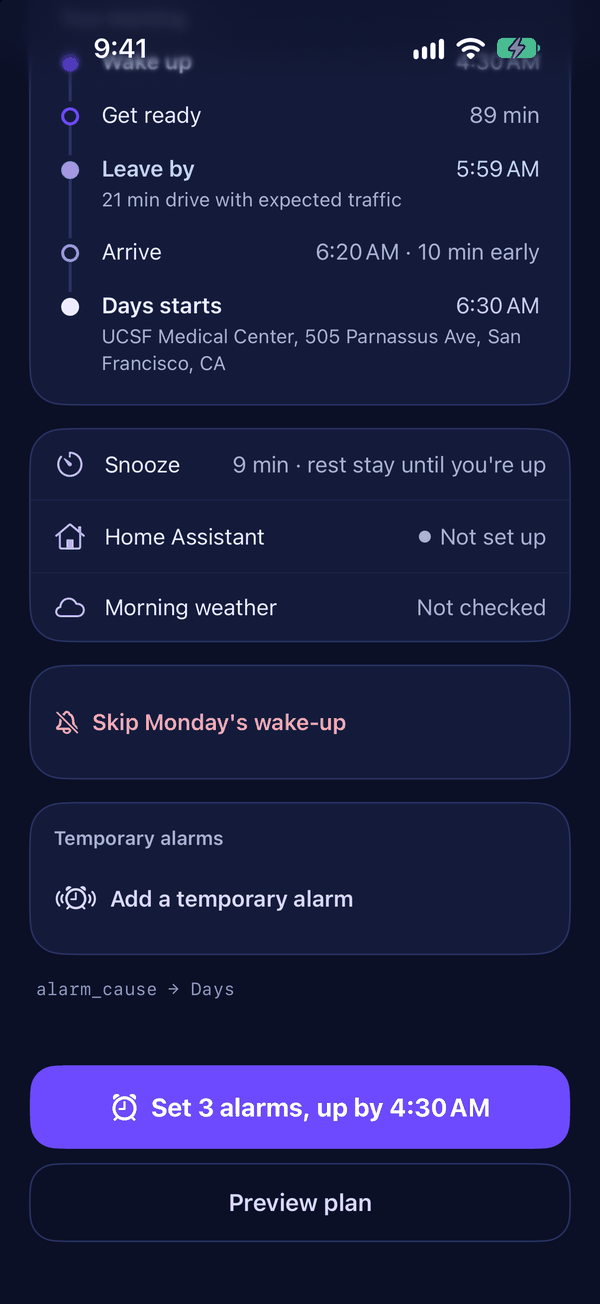
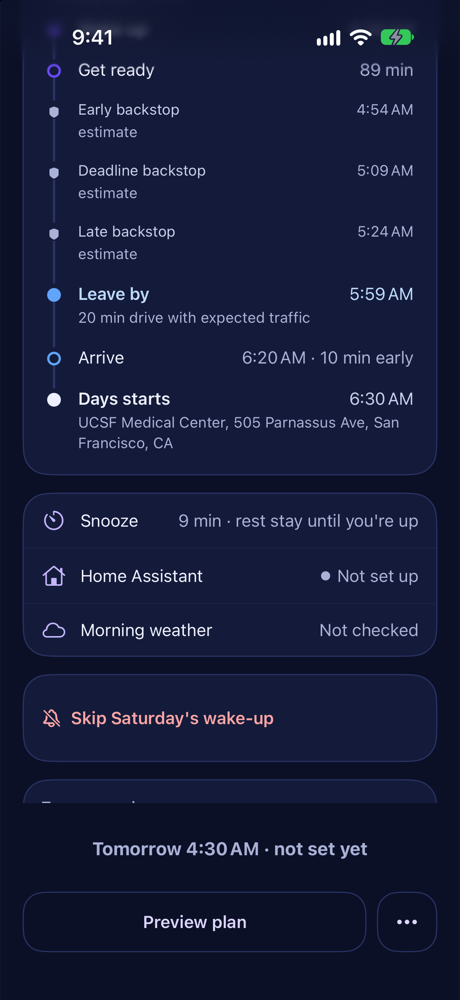
v0.4.6 item 4: README with new screenshots and GIFs
Every picture retaken in the simulator (iOS 27.0) with made-up events: Tonight, Your morning,
Upcoming events, swipe to ignore, the ⋯ list, slide-and-hold, skip, nap, the weekly summary,
Settings, Mornings, Notifications, Wind-down and I'm awake in the bar. The old pictures of
screens that changed are gone. The dated "New in" lists became sections per feature (the bar,
wind-down, nap, mornings with no alarms, weekly summary, widgets/Live Activities/controls/Siri,
notifications); phone commands, options, entities, events and actions brought up to 0.4.6.

diff --git a/README.md b/README.md
@@ -22,7 +22,7 @@
   &nbsp;
   <img src="docs/images/tonight-morning.png" width="200" alt="Morning timeline with leave-by and drive time">
   &nbsp;
-  <img src="docs/images/slide-to-stop.gif" width="200" alt="Slide to stop a snoozed alarm">
+  <img src="docs/images/slide-and-hold.gif" width="200" alt="Slide and hold to confirm a protected action">
 </p>
 
 Bedtime Bridge takes over the parts of a bedtime shortcut that Shortcuts does badly: reading
@@ -33,6 +33,7 @@ chain of calendar, maps and alarm actions. A companion Home Assistant integratio
 helpers your automations can use.
 
 - [A quick tour](#a-quick-tour)
+- [What's in the app](#whats-in-the-app): [bottom bar](#the-bottom-bar) · [wind-down](#wind-down) · [nap](#nap) · [mornings with no alarms](#mornings-with-no-alarms) · [weekly summary](#weekly-summary) · [widgets, Live Activities, controls and Siri](#widgets-live-activities-controls-and-siri) · [notifications](#notifications)
 - [How it fits together](#how-it-fits-together)
 - [How planning works](#how-planning-works)
 - [Alarms and snooze](#alarms-and-snooze)
@@ -45,6 +46,8 @@ helpers your automations can use.
 
 ## A quick tour
 
+All pictures are from the simulator with made-up calendar events.
+
 <table>
   <tr>
     <td width="33%" align="center"><img src="docs/images/tonight.png" width="240" alt="Tonight"></td>
@@ -52,31 +55,138 @@ helpers your automations can use.
     <td width="33%" align="center"><img src="docs/images/upcoming-events.png" width="240" alt="Upcoming events"></td>
   </tr>
   <tr>
-    <td valign="top"><b>Tonight.</b> The next shift or appointment, the wake-up time it needs, and the whole alarm series. Preview first, or set the alarms in one tap.</td>
-    <td valign="top"><b>Your morning.</b> Wake up, get ready, leave by, arrive early, start: with the live drive time and any extra time for bad weather.</td>
-    <td valign="top"><b>Upcoming events.</b> Next week's appointments that have no location or no "wake up" note, so you can fix them before the night they matter.</td>
+    <td valign="top"><b>Tonight.</b> The next shift or appointment, the wake-up time it needs, and the whole alarm series. Preview it, then set it from the bar; bedtime sets it hands-free.</td>
+    <td valign="top"><b>Your morning.</b> Wake up, get ready, the three house backstops, leave by, arrive early, start: with the drive time for that hour and any extra time for bad weather.</td>
+    <td valign="top"><b>Upcoming events.</b> Next week's appointments with no location or no "wake up" note, so you can fix them before the night they matter.</td>
   </tr>
   <tr>
     <td align="center"><img src="docs/images/ignore-event.gif" width="240" alt="Swipe to ignore an event"></td>
-    <td align="center"><img src="docs/images/skip.png" width="240" alt="Skip a morning"></td>
-    <td align="center"><img src="docs/images/temporary-alarm.png" width="240" alt="Temporary alarm"></td>
+    <td align="center"><img src="docs/images/more-menu.png" width="240" alt="The ⋯ list"></td>
+    <td align="center"><img src="docs/images/slide-and-hold.gif" width="240" alt="Slide and hold"></td>
   </tr>
   <tr>
     <td valign="top"><b>Swipe to ignore.</b> An event that needs no wake-up or no location moves to the Ignored tab. Swipe right there to undo.</td>
-    <td valign="top"><b>Skip a morning.</b> Sleep in, or wake at a different time. Skipping the night before also turns off the house's wake failsafes.</td>
-    <td valign="top"><b>Temporary alarms.</b> One extra wake-up (take the trash out, make a call) that leaves your regular alarms, Sleep In and Awake For Day alone.</td>
+    <td valign="top"><b>The bar and ⋯.</b> The bottom bar changes with the moment; ⋯ holds everything else. Amber items are protected.</td>
+    <td valign="top"><b>Slide and hold.</b> Protected actions swap the bar for a slider: slide to the end and hold for 5 seconds. Letting go early does nothing.</td>
   </tr>
   <tr>
-    <td align="center"><img src="docs/images/settings-pages.png" width="240" alt="Settings"></td>
-    <td align="center"><img src="docs/images/drive-time.png" width="240" alt="Drive time settings"></td>
-    <td align="center"><img src="docs/images/bad-weather.png" width="240" alt="Bad weather settings"></td>
+    <td align="center"><img src="docs/images/skip.png" width="240" alt="Skip a morning"></td>
+    <td align="center"><img src="docs/images/nap.png" width="240" alt="Nap"></td>
+    <td align="center"><img src="docs/images/weekly-summary.gif" width="240" alt="Weekly summary"></td>
   </tr>
   <tr>
-    <td valign="top"><b>Settings.</b> Shifts, get-ready time and home up front; everything else grouped into pages.</td>
-    <td valign="top"><b>Drive time.</b> Apple Maps for free, or TomTom and Google with your own keys. Use one, or the longest of all of them. Google's worst case is always shown.</td>
-    <td valign="top"><b>Bad weather.</b> Forecast from Home Assistant or Open-Meteo. Each condition gets the default extra time, its own amount, or none.</td>
+    <td valign="top"><b>Skip a morning.</b> Sleep in, or wake at a different time. Skipping the night before also turns off the house's wake failsafes. Undo from the card.</td>
+    <td valign="top"><b>Nap.</b> Tap a length and the alarms are set. Lengths that would run into something later today are greyed out.</td>
+    <td valign="top"><b>Your week.</b> This week so far and the 8 before it: bedtime against the target, snoozes, backstops, mornings changed, naps.</td>
+  </tr>
+  <tr>
+    <td align="center"><img src="docs/images/settings.png" width="240" alt="Settings"></td>
+    <td align="center"><img src="docs/images/mornings-settings.png" width="240" alt="Mornings settings"></td>
+    <td align="center"><img src="docs/images/notifications.png" width="240" alt="Notification levels"></td>
+  </tr>
+  <tr>
+    <td valign="top"><b>Settings.</b> Shifts up front, everything else in pages. Every page shows each setting's default and has its own reset.</td>
+    <td valign="top"><b>Mornings.</b> Get-ready time and arriving early, and what happens on <a href="#mornings-with-no-alarms">mornings with no alarms</a>.</td>
+    <td valign="top"><b>Notifications.</b> Each one Normal, Time-sensitive or Critical (Critical for the ones Home Assistant sends).</td>
   </tr>
 </table>
+
+## What's in the app
+
+### The bottom bar
+
+The bar at the bottom of Tonight shows what matters right now and the one or two things you'd
+do next: *Plan and set alarms* in the evening, *3 alarms set* with *Sleep later* once they're
+set, *I'm up early* before the first alarm, *Snoozing · rings 4:34* with *End alarms*,
+*Napping · up at 2:47* with *End nap*, *Winding down · bed 9:50*, *I'm awake* on a morning
+with no alarms. Everything else is in **⋯**, the same list every time with what doesn't apply
+hidden.
+
+It changes on time by itself while the app is open (5:00 PM, wind-down, go to bed, an alarm
+passing, the morning windows closing, Undo running out), not just when you touch it.
+
+**Protected actions** (End alarms, Not ready for bed, Back to bed, Skip, Sleep later, End nap,
+No alarms tomorrow, Undo, I'm awake and others) are amber, and swap the bar for a
+**slide-and-hold**: slide to the end and hold for 5 seconds while a ring fills.
+
+<p align="center"><img src="docs/images/im-awake-bar.png" width="320" alt="I'm awake in the bar on a morning with no alarms"></p>
+
+### Wind-down
+
+<img src="docs/images/wind-down.png" width="220" align="right" alt="Wind-down settings">
+
+Settings → Wind-down (off until the phone side is set up). From tomorrow's first alarm and your
+sleep goal, Home Assistant works out wind-down and go to bed (first alarm 4:20 → wind-down 8:50
+PM, bed 9:50 PM). It warns you 5 minutes before (with *15 min later* and *Cancel*), starts
+wind-down (the Winding down helper and the Wind Down On - App shortcut: Focus, Night Shift,
+Reduce White Point), says when it's time for bed (critical) and reminds you if you're still up.
+Getting home late moves bedtime later rather than cutting wind-down short. *Start wind-down now*
+shows in the bar in the hours before. Into bed (bedroom door closed and bed occupied) ends it.
+
+<br clear="right">
+
+### Nap
+
+Settings → Nap (off by default) adds a **Nap** button. Tap a length and its alarms are set
+straight away (2 alarms, 10 min apart). Anything later today (a shift, an appointment with its
+drive, your next alarm) greys out the lengths that would run into it, with the longest nap that
+fits. At home, Home Assistant turns a napping helper on and runs your nap Focus shortcuts. Nap
+alarms behave like temporary alarms: no wake routines, no Good Morning, no backstops. *End nap*
+(or stopping its last alarm) clears it from the screen at once.
+
+### Mornings with no alarms
+
+Sleep In on, no alarms, and you get up when you get up. At home, and only on such a morning
+(Settings → Mornings → *Mornings with no alarms*):
+
+1. **Leaving the bedroom disarms.** Out of bed, through the bedroom door, down the hall (the
+   hallway presence sensors in the integration's options): Home Assistant sends `RUN_DISARM` and
+   nothing else changes. Letting the dog out the patio door is safe from there.
+2. **Back in bed re-arms** (`RUN_ARM_STAY`) after the same time as after a temporary alarm.
+3. **Up for the day?** From 8:00 AM, once you've been up 15 minutes or the phone comes off the
+   charger, Home Assistant asks, with *Good morning* and *Back to bed*. No answer and still up 10
+   minutes later, it goes ahead: Sleep In off, Awake For Day on, `RUN_GOOD_MORNING` (Sleep Focus
+   off, the announcement).
+4. **I'm awake** does the same straight away: in the bar and ⋯, the Siri phrase *"I'm awake in
+   Bedtime Bridge"*, and the **I'm awake** control (Lock Screen, Control Center, Action button).
+
+The earliest time, the up-for and wait minutes and the whole thing on/off are in the app.
+
+### Weekly summary
+
+<img src="docs/images/weekly-summary.png" width="220" align="right" alt="This week so far">
+
+Home Assistant keeps track of each night and morning. Settings → Weekly summary → **See your
+week** shows this week so far, and the arrows go back through the 8 weeks before it: when you
+went to bed against the target, nights tracked, mornings, snoozes a morning, backstops fired,
+mornings changed (with the reasons) and naps. Weeks start on the day and at the time set there
+(Sunday 6:00 PM by default), when a notification and a Home Assistant sensor sum up the week
+that just ended.
+
+<br clear="right">
+
+### Widgets, Live Activities, controls and Siri
+
+- **Next Alarm widget** in every size: the Lock Screen (rectangular, circular, inline), small
+  (next alarm, or "Bed in…" during wind-down), medium (the next alarm and the next four things:
+  wind-down, go to bed, alarms, leave-by), and large and extra large (the night and morning as a
+  timeline).
+- **Live Activities:** "Bed in 42 min · first alarm 4:20" during wind-down, and "Leave in 25 min
+  · 5:45" after the first stop (drive, worst case, weather, next backstop). With an Apple push key
+  in the integration's options, Home Assistant starts, updates and ends them by push, without
+  the app running (`docs/ha-handoffs-v0.4.4.md`).
+- **Controls** for the Lock Screen, Control Center and the Action button: Nap, Wind-down (start or
+  cancel), Tonight and I'm awake.
+- **Quick actions** on the app icon (long-press), chosen in Settings → Shortcuts & controls.
+- **Siri:** plan, cancel, nap, no alarms tomorrow, sleep later, start or cancel wind-down, add
+  leave, add a wake-up event, I'm awake.
+
+### Notifications
+
+Settings → Notifications sets each one to Normal, Time-sensitive (comes through Focus) or Critical
+(sounds on silent; only for the ones Home Assistant sends, with Critical Alerts allowed for the
+Home Assistant app). Defaults: *Time for bed* critical; *Still up*, *Plug in your phone*, the
+leave-by reminders and *Tomorrow changed* time-sensitive; the rest normal.
 
 ## How it fits together
 
@@ -157,8 +267,6 @@ Settings → Alarms chooses one of two styles:
 | Sound | **iPhone alarm** (default), or one of six sounds that ship with the app: Sunrise (builds slowly), Chimes, Marimba, Harp, Classic beeps, Pulse. Settings → Alarms, with a play button to hear each. | Whatever you pick in the Clock app. |
 | After Stop | **Keeps the later alarms until you're up** (default; see below), rechecks traffic for the leave-by reminder. | Whatever your shortcut does. |
 
-<p align="center"><img src="docs/images/slide-to-stop.gif" width="220" alt="Slide to stop while snoozing"></p>
-
 **Stop keeps the rest until you're up.** Turning off the first alarm, switching the lights off
 and falling back asleep is how Wake Deadline Backstop came to exist. So by default, Stop only
 cancels the later alarms once Home Assistant confirms you're up: the bedroom door opened
@@ -180,12 +288,7 @@ alarm could both fire. Also delete the Clock alarms the old shortcut toggled.
 Plans change after bedtime. The Tonight screen (and matching Shortcuts actions) covers the
 common cases without touching Home Assistant by hand.
 
-<table>
-  <tr>
-    <td width="50%" align="center"><img src="docs/images/skip.png" width="260" alt="Skip Monday's wake-up"></td>
-    <td width="50%" align="center"><img src="docs/images/temporary-alarm.png" width="260" alt="Temporary alarm sheet"></td>
-  </tr>
-</table>
+<p align="center"><img src="docs/images/skip.png" width="260" alt="Saturday's wake-up skipped"></p>
 
 **Skip a morning.** *Skip Monday's wake-up* asks what you want instead:
 - **Sleep in:** the alarms are cancelled, Sleep In turns on, and the shift override is set to
@@ -227,76 +330,24 @@ scheduled, then shows what the phone really holds, read back from the system: **
 4:20 4:25 4:30**, or **Couldn't set 1 of 3 alarms** in red. The Lock Screen widget shows the same
 count ("3 alarms set · Leave by 6:26").
 
-**Setting up?** `docs/setup.md` has every step for v0.4.2 – 0.4.5 in order.
+**Setting up?** `docs/setup.md` has every step for v0.4.2 – 0.4.6 in order; each version's
+Home Assistant side is in `docs/ha-handoffs-v*.md`.
 
-**New in 0.4.4:** with an Apple push key in the integration's options, Home Assistant starts,
-updates and ends the wind-down and morning Live Activities by push, without the app running
-(`docs/ha-handoffs-v0.4.4.md`). The app's own leave-by reminders, "Tomorrow changed" and the Nap
-control's notice are time-sensitive, so they come through Focus. **Settings → Notifications**
-sets each notification to Normal, Time-sensitive or Critical (Critical for the ones Home
-Assistant sends). **Apple Weather** is a third forecast source (Settings → Bad weather), next to
-Home Assistant and Open-Meteo. Get-ready time and arriving early moved to **Settings → Mornings**,
-and the home address to **Settings → Home**. Home Assistant can **re-check the drive itself** at
-each leave check (Apple Maps, TomTom, Google or the longest), so the checks work with the phone
-asleep; the app's own drive times are unchanged. The **Next Alarm widget** comes in every size:
-small (next alarm, or "Bed in…" during wind-down), medium (next alarm plus the next four things:
-wind-down, go to bed, alarms, leave-by), and large and extra large (the whole night and morning as
-a timeline).
-
-**New in v0.4.3:**
-- **Set alarms asks first:** a manual Plan and set alarms shows a preview with Set alarms and
-  Cancel; Undo stays in the bar until bedtime runs. Bedtime and the Plan Wake Alarms action stay
-  hands-free.
+**More you can change after bedtime:**
+- **Set alarms asks first:** a manual *Plan and set alarms* shows a preview with Set alarms and
+  Cancel; **Undo** stays in the bar until bedtime runs.
 - **No alarms tomorrow**, any time before the morning, with a Sleep In switch. A shift still on
   the calendar keeps its backstops.
 - **Calendar changed:** "Tomorrow changed: Days shift deleted. Your 4:20 alarms are still set.
   Re-plan?" Nothing moves until you confirm.
-- **Wind-down** (Settings → Wind-down, off until set up): from tomorrow's first alarm, Home
-  Assistant warns you, starts wind-down (Winding down helper, Wind Down On - App), says when
-  it's time for bed (critical) and reminds you if you're still up. Getting home late moves bedtime
-  later rather than cutting wind-down short.
-- **Morning Live Activity:** "Leave in 25 min · 5:45" with the drive, worst case, weather and
-  the next backstop.
-- **Resets** (Settings → Reset), **defaults shown** on every settings page, and a **Reset this
-  page** on each.
-- **Siri and Shortcuts:** Nap, No alarms tomorrow, Sleep later, Start/Cancel wind-down, Add leave,
-  Add a wake-up event.
-- **Leave titles and Add leave; Add a wake-up event** (the circle button at the top).
-- **Weekly summary**, **Plug in your phone**, **quick actions** on the app icon, **controls** for
-  the Lock Screen, Control Center and Action button.
-
-**New in v0.4.2:**
-- **Bottom bar:** changes with the moment (evening, alarms set, up early, snoozing, up, napping,
-  plans changed). It has one ⋯ list for everything else. Protected actions (End alarms, Not
-  ready for bed, Back to bed, Skip, Sleep later and others) swap the bar for a slide-and-hold.
-- **Alarm card:** each alarm's bubble shows its real state. Green is set, yellow pulsing is
-  snoozing, red crossed-out is off, and red dashed is not set. The rings stay until the morning
-  is over.
-- **Nap** (Settings → Nap, off by default): tap a length and the alarms are set. Lengths that
-  would run into something later today are greyed out, with the reason and the longest nap that
-  fits. Home Assistant turns a napping helper on at home and runs your nap Focus shortcuts.
-- **When options show** (Settings → Alarms): one page for when I'm up early, Not ready for bed
-  and Back to bed appear. Back to bed now ends 3 h after the wake-up or the last stop.
-- **Start new alarms this far from now:** how far ahead Wake at a different time starts (default
-  6 h).
-- **Leave checks** keep going after a snow delay or a sleep-longer change.
-
-**New in v0.4.1:**
-- **Change this morning** asks the reason first, then whether to shift just the alarms or the
-  entire wake-up (snow delay). The confirm screen shows the backstops before and after, and choices
-  past the late backstop are off.
-- **Sleep later** from Tonight before bed moves the alarms later, with **Back to planned**.
-- **Edit alarms:** move, add or remove any single alarm once they're set, including one that's
-  snoozing. Moving or removing it ends its snooze. If nothing is still snoozing, the bedroom fades
-  back down.
-- **Your morning** on the main screen shows the three house backstops and where their times come
-  from.
-- **Wake at a different time** (day off, skip) rounds its default time, then shows a preview where
-  you can add an alarm before, between or after the others and edit the backstops. Your own alarm's
-  backstops are off by default on days off and leave, with a switch.
-- A **"wake up" appointment** on a work morning replaces the shift's alarms when it starts before
-  the shift ends. Settings → Appointments explains the keyword and lists what's marked.
-- The reason line reads in plain words ("Reason for alarm: Days shift").
+- **Change this morning** (reason first, then just the alarms or the whole wake-up for a snow
+  delay; the confirm screen shows the backstops before and after), **Sleep later** with *Back to
+  planned*, and **Edit alarms** to move, add or remove any single one.
+- **Wake at a different time** (day off, skip) shows a preview where you can add alarms and edit
+  the backstops.
+- **Add a wake-up event** (the round button at the top) and **Add leave**, straight into your
+  calendar.
+- **Plug in your phone** at bedtime when the battery is low and it isn't charging.
 
 ## Home Assistant integration (recommended)
 
@@ -325,6 +376,11 @@ Bedtime Bridge. Or copy `custom_components/bedtime_bridge` into your config fold
 | Curtains open after sunrise | 15 min |
 | Re-arm after back in bed for / Bedtime again after back in bed for | 5 min / 15 min |
 | Check these when I'm away | garage door, entry doors and front lock, when they exist |
+| Napping helper, Winding down helper, Bedroom door sensor | `input_boolean.napping`, `input_boolean.winding_down`, your bedroom door |
+| Hallway presence | the presence sensors just outside the bedroom ([mornings with no alarms](#mornings-with-no-alarms)) |
+| Phone battery level / state | the Companion app's battery sensors (Plug in your phone, and off the charger) |
+| Apple push key (.p8) and Key ID | for Live Activities by push |
+| Drive times from | Phone (default), Apple Maps, TomTom, Google or Longest, with their keys |
 
 The last step shows two addresses and a **pairing link**:
 - **Anywhere:** with Home Assistant Cloud (Nabu Casa), a `https://hooks.nabu.casa/…` cloudhook,
@@ -354,13 +410,17 @@ private. Deleting the integration also deletes its Nabu Casa cloudhook.
 | `sensor.bedtime_bridge_last_plan` | When the phone last planned. Attribute: error, if the last attempt failed |
 | Ladder early / deadline / late (`sensor.bedtime_bridge_ladder_*`; older installs keep `_safety_net_*` ids) | The leave-by backstop ladder: 50 / 35 / 20 min before leave-by (15 min earlier on a first day back). `unavailable` when not armed. See [Safety nets](#safety-nets) |
 | `sensor.bedtime_bridge_ladder_status` | `armed`, `done`, `idle_override_off`, `idle_leave`, `idle_uncovered`, `idle_no_shift` or `fault`. Attributes: reason, morning, next rung |
+| `sensor.bedtime_bridge_wind_down_status`, `_wind_down`, `_go_to_bed`, `_went_to_bed`, `_bed_off_target` | Tonight's wind-down: status, times, and when you actually got into bed |
+| `sensor.bedtime_bridge_weekly_summary` | The week that just ended, as text. Attributes: the numbers |
+| `sensor.bedtime_bridge_app_expires` | When this install of the app stops opening |
 | `number.bedtime_bridge_get_ready_time`, `_arrive_early`, `_snooze_length`, `_bad_weather_extra_time_setting`, `_leave_by_reminder_lead`, `_days_lead_time`, `_swings_lead_time` | **Settings you can change in HA.** They start out matching the app after its first plan. After that, HA's value wins each time the app runs. |
 
 **Events:** `bedtime_bridge` with `type` (`planned`, `snoozed`, `stopped`, `cancelled`,
 `leave_by`) plus `alarm_cause`, `alarm_time`, `alarm_times`, `label`, `leave_by` and
 `snooze_count`. `planned` also carries `alarms_set` (true only when the app's alarms are scheduled). Also fired: `bedtime`, `plan_failed` (with `error`), `plan_outdated`
 (with `reason`), `skipped` / `unskipped`, `temporary_snoozed` / `temporary_stopped`,
-`temporary_rearmed`, `bedtime_undone` and `bedtime_rerun`. Test alarms add `test: true`. With *helpers only*, or while you're away,
+`temporary_rearmed`, `bedtime_undone`, `bedtime_rerun`, and on mornings with no alarms
+`left_bedroom` (`disarmed`) and `good_morning` (`by_hand`, `disarmed`, `sent`). Test alarms add `test: true`. With *helpers only*, or while you're away,
 snoozed/stopped aren't fired.
 
 **Helpers or blueprints, your choice:**
@@ -398,10 +458,14 @@ automation (iOS 27) runs the matching shortcut:
 
 | Marker | Sent when | Run this |
 |---|---|---|
-| `RUN_DISARM` | A temporary alarm (disarm mode) is stopped, or *Not going to sleep yet* | Your disarm shortcut |
-| `RUN_ARM_STAY` | You've been back in bed long enough after a temporary alarm | Your arm-stay shortcut |
+| `RUN_DISARM` | A temporary alarm (disarm mode) is stopped, *Not going to sleep yet*, or leaving the bedroom on a morning with no alarms | Your disarm shortcut |
+| `RUN_ARM_STAY` | You've been back in bed long enough after a temporary alarm or a trip out on a morning with no alarms | Your arm-stay shortcut |
 | `RUN_BACK_TO_BED` | *Back to bed* after you're up (moving or cancelling this morning's alarms) | Back To Bed - App: MorningState back to sleeping, arm stay, Sleep Focus on |
-| `RUN_GOOD_MORNING` | The first stop of a wake-up while you're home (Wake Mike too runs once per wake-up) | Good Morning (curtains, house alarm, briefing) |
+| `RUN_GOOD_MORNING` | The first stop of a wake-up while you're home (Wake Mike too runs once per wake-up); on a morning with no alarms, *Up for the day?* or *I'm awake* | Good Morning (curtains, house alarm, briefing) |
+| `RUN_PLAN_PREVIEW` | Before wind-down, to check tomorrow | Preview Tomorrow - App |
+| `RUN_WIND_DOWN` / `RUN_CANCEL_WIND_DOWN` | Wind-down starts / is cancelled | Wind Down On - App / Wind Down Off - App |
+| `RUN_NAP_START` / `RUN_NAP_END` | A nap starts / ends | Nap Start - App / Nap End - App |
+| `RUN_MORNING_UPDATE` | The morning Live Activity's refresh, when there's no push key | Morning Update - App |
 | `RUN_BEDTIME` | Back in bed after *Not going to sleep yet* (and the existing bedtime nudge) | The bedtime shortcut |
 | `RUN_LEAVE_CHECK` | Each leave reminder, while you're home (v0.4.1) | Bedtime Bridge **Check Drive and Remind** (no shortcut needed) |
 
@@ -509,12 +573,11 @@ and Sleep In.
 
 ## Lock Screen widget
 
-Add **Next Alarm** from the Lock Screen widget gallery (Bedtime Bridge). It shows the next
-alarm time, why it's set ("Days shift", "Dentist", "Day off"), and leave-by on appointment
-mornings. While snoozing it shows the snooze time instead. After the last alarm it keeps showing
-"Leave by" and the event until 30 minutes past it (Settings → Drive time). Sizes: rectangular (time, reason,
-leave-by), circular (time) and the inline line above the clock. There's also a small
-Home Screen widget.
+Add **Next Alarm** from the widget gallery (Bedtime Bridge); every size is there (see
+[widgets](#widgets-live-activities-controls-and-siri)). It shows the next alarm time, why it's
+set ("Days shift", "Dentist", "Day off"), and leave-by on shift and appointment mornings. While
+snoozing it shows the snooze time instead. After the last alarm it keeps showing "Leave by" and
+the event until 30 minutes past it (Settings → Drive time).
 
 The app updates it whenever alarms change (plan, snooze, stop, cancel). It moves on to the next
 alarm by itself as each one passes. In Clock app mode it shows the planned times but can't
@@ -532,8 +595,8 @@ see Clock snoozes. The app and widget share data through the App Group
   stop an alarm and when you open it that morning. Without Home Assistant the bedtime reminders
   still arrive, 2 min after each time, marked "not re-checked". They stop once you've left, 15 min
   after leave-by, or when the morning is changed or skipped.
-- **Bad weather.** Uses an hourly forecast, from Home Assistant (`weather.forecast_home`) or
-  the free **Open-Meteo** service (Settings → Bad weather → *Forecast from*). Each condition can
+- **Bad weather.** Uses an hourly forecast, from Home Assistant (`weather.forecast_home`), the
+  free **Open-Meteo** service, or **Apple Weather** (Settings → Bad weather → *Forecast from*). Each condition can
   use the default extra time, its own amount (snow: 30 min), or be off. It reads the forecast
   from your first alarm until you need to be there. If a condition that's on shows up (by
   default snow, sleet, hail, heavy rain and thunderstorms, or rain at freezing), it adds that
@@ -573,6 +636,8 @@ them; re-render after editing a design.
 | **Report Shortcut Ran** | Last step of a shortcut a [phone command](#phone-commands) runs, so Home Assistant clears that command's notification. |
 | **Check Drive and Remind** | Run by the `RUN_LEAVE_CHECK` automation: re-checks this morning's drive, notifies when to leave, tells Home Assistant the new leave-by. |
 | **Get Drive Time** | Drive minutes from home to a place, arriving by a given time. Useful in other shortcuts. |
+| **Nap**, **No Alarms Tomorrow**, **Sleep Later**, **Start / Cancel Wind-Down**, **Add Leave**, **Add a Wake-Up Event**, **I'm Awake** | The same as in the app, for Siri and your own shortcuts. |
+| **Preview Tomorrow**, **Morning Update** | Run by the `RUN_PLAN_PREVIEW` and `RUN_MORNING_UPDATE` automations. |
 
 ## Alarm cause
 
@@ -693,12 +758,14 @@ BedtimeBridge/
     DriveTime/  Apple Maps, TomTom and Google drive-time providers
   Intents/    Shortcuts actions, Snooze/Stop button actions, Wake Plan result type
   Views/      main screen and settings
-BedtimeBridgeWidgets/  Lock Screen "Next Alarm" widget and the snooze-countdown Live Activity
+BedtimeBridgeWidgets/  "Next Alarm" widget (every size), the snooze, wind-down and morning Live Activities,
+                       and the Lock Screen / Control Center controls
 Shared/       Nightfall theme, alarm metadata and widget snapshot used by the app and the widgets
 BedtimeBridgeTests/
 custom_components/bedtime_bridge/  Home Assistant integration (HACS)
   brand/      integration icon and logo (rendered from design/icons/crescent.svg)
 blueprints/automation/bedtime_bridge/  "Bedtime Bridge alarm event" blueprint
 tests/ha/     integration tests
+docs/         setup guide, Home Assistant hand-offs per version, shortcuts, specs, README pictures
 BedtimeBridge.xcodeproj  Xcode project (open this)
 ```
